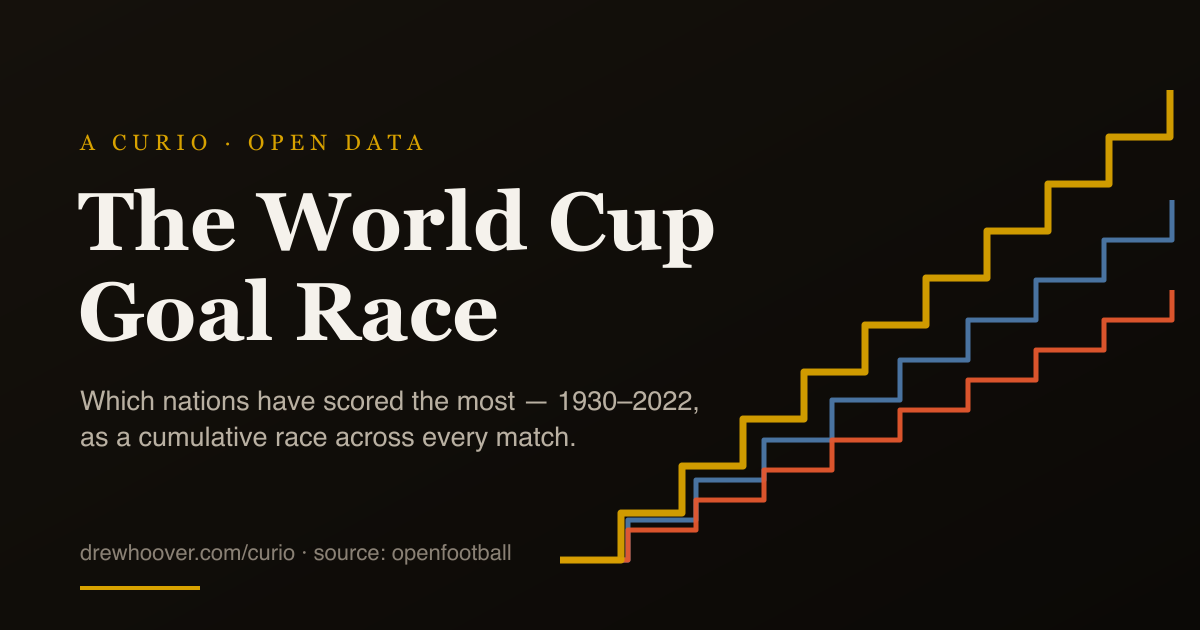
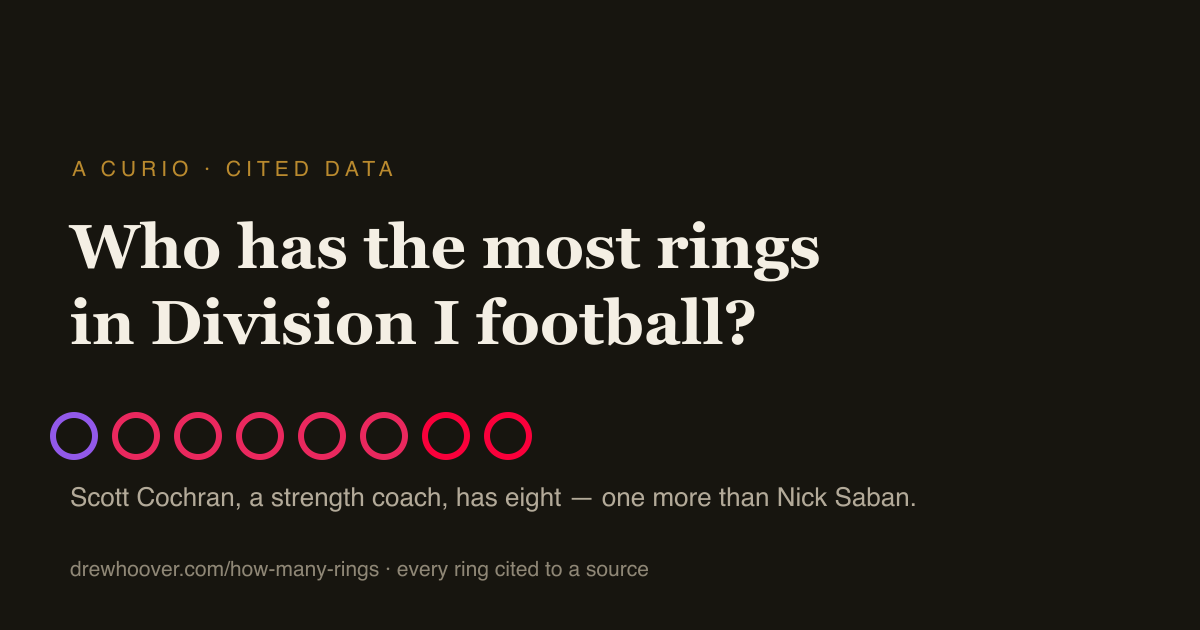
Prerender for crawlers, wire up analytics, refresh the social assets
SEO, per the skill's seo.md:
- dist/index.html shipped an empty #root — every name and number existed
  only after React ran. scripts/prerender.mjs now renders the app with a
  trimmed top-100 seed (64KB, inlined) and injects both markup and seed,
  so the client hydrates against exactly what the server rendered and
  then swaps in the full 741KB dataset. 36,495 characters of text where
  there were none.
- main.tsx hydrates instead of creating a fresh root, and useQueryState
  no longer reads window during render — that seeded state from the URL,
  which hydrates into a mismatch on every shared link.
- Canonical, JSON-LD (WebPage + BreadcrumbList + the 25 rows actually
  rendered), sitemap.xml, and a title aimed at a query this page can win.

Analytics: project sites inherit nothing from the index site, so this had
been reporting zero. Added the shared /embed/analytics.js drop-in along
with the back-bar and giscus chrome it belongs with.

Assets: og.png was still the curio template's World Cup artwork — that
would have been the social card. Regenerated from the real palette, using
Cochran's eight rings as the image. Adds cover.png (1200x750) for the
index card.

README rewritten; it still said 'early scaffold' from the first commit.

diff --git a/index.html b/index.html
@@ -7,21 +7,27 @@
     <link rel="icon" type="image/png" sizes="32x32" href="favicon-32.png" />
     <link rel="apple-touch-icon" sizes="180x180" href="apple-touch-icon.png" />
 
-    <title>Who has the most rings in Division I football? · a Curio</title>
-    <meta name="description" content="Which college football assistant coaches have the most national championship rings? A ranked, cited count of every ring on every staff. Built on open, cited data." />
+    <title>Who Has the Most College Football Championship Rings?</title>
+    <meta name="description" content="Every person on a national-championship staff since 1990, ranked by rings — the strength coaches, trainers and photographers who out-ring famous head coaches." />
+    <link rel="canonical" href="https://drewhoover.com/how-many-rings/" />
 
     <!-- Open Graph / Twitter. og:image + og:url must be absolute; update on a fork. -->
     <meta property="og:type" content="website" />
     <meta property="og:title" content="Who has the most rings in Division I football?" />
-    <meta property="og:description" content="Which college football assistant coaches have the most national championship rings — every ring, every staff, cited." />
+    <meta property="og:description" content="Scott Cochran has eight. Nick Saban has seven. Every person on a championship staff since 1990, ranked by rings, each one cited." />
     <meta property="og:url" content="https://drewhoover.com/how-many-rings/" />
     <meta property="og:image" content="https://drewhoover.com/how-many-rings/og.png" />
     <meta property="og:image:width" content="1200" />
     <meta property="og:image:height" content="630" />
     <meta name="twitter:card" content="summary_large_image" />
     <meta name="twitter:title" content="Who has the most rings in Division I football?" />
-    <meta name="twitter:description" content="Which college football assistant coaches have the most national championship rings — every ring, every staff, cited." />
+    <meta name="twitter:description" content="Scott Cochran has eight. Nick Saban has seven. Every person on a championship staff since 1990, ranked by rings, each one cited." />
     <meta name="twitter:image" content="https://drewhoover.com/how-many-rings/og.png" />
+
+    <!-- drewhoover.com cross-site chrome -->
+    <script src="https://drewhoover.com/embed/back-bar.js" async></script>
+    <script src="https://drewhoover.com/embed/giscus.js" async></script>
+    <script src="https://drewhoover.com/embed/analytics.js" async></script>
   </head>
   <body>
     <div id="root"></div>

diff --git a/src/App.tsx b/src/App.tsx
@@ -11,20 +11,35 @@ const SCOPES: { key: Scope; label: string; blurb: string }[] = [
   { key: 'onfield', label: 'Coaches only', blurb: 'Anyone who earned a ring as a head coach or on-field assistant.' },
 ]
 
+/**
+ * URL-backed state. The first render must not read `window` — the prerendered
+ * HTML has no query string, so seeding from the URL hydrates into a mismatch
+ * whenever someone opens a shared link. Start at the fallback and apply the URL
+ * on mount instead.
+ */
 function useQueryState(key: string, fallback: string) {
-  const [v, setV] = useState(() =>
-    (typeof window === 'undefined' ? null : new URLSearchParams(window.location.search).get(key)) ?? fallback)
+  const [v, setV] = useState(fallback)
+  const [ready, setReady] = useState(false)
+
   useEffect(() => {
+    const fromUrl = new URLSearchParams(window.location.search).get(key)
+    if (fromUrl !== null) setV(fromUrl)
+    setReady(true)
+  }, [key])
+
+  useEffect(() => {
+    if (!ready) return   // don't wipe the incoming URL before we've read it
     const p = new URLSearchParams(window.location.search)
     v === fallback ? p.delete(key) : p.set(key, v)
     const q = p.toString()
     window.history.replaceState(null, '', q ? `?${q}` : window.location.pathname)
-  }, [key, v, fallback])
+  }, [key, v, fallback, ready])
+
   return [v, setV] as const
 }
 
-export function App() {
-  const [data, setData] = useState<Dataset | null>(null)
+export function App({ initialData }: { initialData?: Dataset } = {}) {
+  const [data, setData] = useState<Dataset | null>(initialData ?? null)
   const [error, setError] = useState<string | null>(null)
   const [scope, setScope] = useQueryState('scope', 'all')
   const [q, setQ] = useQueryState('q', '')
@@ -39,12 +54,14 @@ export function App() {
     return () => { window.removeEventListener('scroll', clear); window.removeEventListener('blur', clear) }
   }, [tip])
 
+  // Always fetch the full dataset: the seed carries only the top 100 and no
+  // citations, which is enough to paint but not enough to click into.
   useEffect(() => {
     fetch(`${BASE}data/rings.json`)
       .then((r) => { if (!r.ok) throw new Error(`HTTP ${r.status}`); return r.json() })
       .then(setData)
-      .catch((e) => setError(String(e)))
-  }, [])
+      .catch((e) => { if (!initialData) setError(String(e)) })
+  }, [initialData])
 
   // Rank and count are always the person's real ring total — the scope decides
   // who is listed, never what anyone is worth.

diff --git a/src/main.tsx b/src/main.tsx
@@ -1,10 +1,20 @@
 import { StrictMode } from 'react'
-import { createRoot } from 'react-dom/client'
+import { createRoot, hydrateRoot } from 'react-dom/client'
 import './index.css'
 import { App } from './App.tsx'
+import type { Dataset } from './lib/types.ts'
 
-createRoot(document.getElementById('root')!).render(
+// The prerender step injects a trimmed top-100 payload and the markup rendered
+// from it. Hydrating against that same seed means the server and client first
+// render are identical; the full 741KB dataset arrives afterwards.
+const seedEl = document.getElementById('seed-data')
+const seed: Dataset | undefined = seedEl ? JSON.parse(seedEl.textContent!) : undefined
+const root = document.getElementById('root')!
+
+const tree = (
   <StrictMode>
-    <App />
-  </StrictMode>,
+    <App initialData={seed} />
+  </StrictMode>
 )
+
+seed ? hydrateRoot(root, tree) : createRoot(root).render(tree)

diff --git a/README.md b/README.md
@@ -1,30 +1,57 @@
 # Who has the most rings in Division I football?
 
-**Which college football staffers have the most national championship rings?**
+**Live:** https://drewhoover.com/how-many-rings/
 
-Head coaches get the statues. But an assistant who rides shotgun on multiple dynasties can quietly out-ring almost everyone — Scott Cochran followed Nick Saban from LSU to Alabama, then followed Kirby Smart to Georgia, collecting rings at every stop. This site counts every ring on every championship staff and ranks the assistants.
+Nick Saban has seven national championship rings. Scott Cochran, who ran his weight room, has eight — one at LSU, five at Alabama, two at Georgia, collected by following Saban and then Kirby Smart. Tied with Saban at seven: Alabama's team photographer, its athletics communications director, its student-services director, and the man who was Saban's personal assistant. Four of the six people at the top of this list never coached a down.
 
-A [Curio](https://github.com/DrewHoo/curio): interactive, mobile-first, shareable via URL state, and **every number cited to a real source**.
+This site counts every ring on every national-championship staff since 1990 — **409 people with two or more**, out of 1,273 on those staffs — and every single one links to the source page and the verbatim line that supports it.
 
-**Status: early scaffold.** The app code is still the curio template's World Cup example; the data pipeline design lives in [docs/data-pipeline.md](docs/data-pipeline.md).
+A [Curio](https://github.com/DrewHoo/curio): interactive, mobile-first, shareable via URL state, and every number cited.
 
-## The core computation
+## How the count works
 
-A "ring" is defined as: **coach C was on team T's staff during season S, and T won the national championship in S.**
+A ring means: this person was on the staff of a team that won the national championship that season, and was still on staff at the championship game.
 
-That decomposes into two datasets, one of which is already solved:
+That decomposes into two datasets joined deterministically in code — no model does any counting:
 
-1. **Championship seasons** (small, fixed, settled): one consensus national champion per season. Already scraped in the sibling repo [`collegiate-championships`](https://github.com/DrewHoo/cfb-all-time-records) (CFP > BCS > AP > Coaches preference order).
-2. **Staff rosters for championship teams** (the hard part): who was on staff for each championship team-season, in what role. This is bounded — ~35 champion team-seasons since 1990, ~10–15 on-field assistants plus notable staff each — and is gathered by the agentic pipeline in `docs/data-pipeline.md`.
+1. **Champion seasons** — one consensus national champion per season (CFP > BCS > AP > Coaches), reused from the sibling [`collegiate-championships`](https://github.com/DrewHoo/cfb-all-time-records) scraper. 40 team-seasons, split titles counted for both schools.
+2. **Staff rosters for those seasons** — the part that existed nowhere. Assembled from media guides on archive.org, Wayback Machine snapshots of athletics staff directories, and school bios, by an agent fleet. Each row carries a URL and the exact line from it, so a hallucinated row can be rejected by string match rather than by trust.
 
-Rings per coach = group the (coach, team, season, role, citations) rows by coach. Working **backward from championships** (rather than forward from all coaches ever) is what keeps the problem small and every claim independently checkable.
+Rings per person = group the rows by person. Working backwards from championships is what keeps the problem small enough to verify claim by claim.
 
-## Development
+### The rules, kept in data rather than in judgment
+
+- **[`data/employment-rules.json`](data/employment-rules.json)** — the job has to be the team. 61 people on these staff lists are excluded because someone else signed their paycheck: state troopers and team security, chaplains and FCA staff, consulting physicians and surgeons, volunteers. Athletic trainers, academic counselors and video staff are department employees and count.
+- **[`data/name-aliases.json`](data/name-aliases.json)** — sources spell one person several ways across seasons. Wes Neighbors appears on the same 2012 roster as both "Wes" and "Wesley"; unmerged, that splits one person into two undercounted people.
+- **[`data/player-rings.json`](data/player-rings.json)** — 14 people won rings as players too, tracked separately and shown as a filled mark. Dabo Swinney, Mickey Conn and Lemanski Hall all won 1992 as Alabama players, then won 2016 and 2018 together on Clemson's staff.
+- **[`data/school-colors.json`](data/school-colors.json)** — each school's official brand color, cited to its brand guidelines, with notes where two schools publish identical hexes.
+
+Rings sourced from a documented employment span rather than a staff list are marked `via: "tenure"` and labeled *from tenure* in the UI. It is weaker evidence and the site says so.
+
+## Scripts
 
 ```bash
-npm install
-npm run dev          # local dev server
-npm run build        # fetch data + typecheck + build
+npm run dev            # local dev server
+npm run build          # build data + typecheck + vite build + prerender
+npm run gen:colors     # regenerate src/team-colors.css from data/school-colors.json
+node scripts/coverage-report.mjs   # dataset health — run after any merge
 ```
 
-Deploys to GitHub Pages at `https://drewhoover.com/how-many-rings/` via `.github/workflows/deploy.yml` once the repo is pushed (not yet pushed — local only for now).
+`coverage-report.mjs` measures the failure modes a finished page hides:
+
+1. **Depth asymmetry** — two title seasons of one program harvested from sources of different depth. Consecutive championship staffs share ~75% of their people; when the number is 33%, the thin season is the bug, not staff turnover.
+2. **Missing lifers** — someone credited for part of a program's titles in a role that implies they were there for all of them. Kent Gidley read as a 2017/2020 guy until you learn he has photographed Alabama football since 1986. He has seven.
+3. **Photo coverage** of the union of each filter's top 100 — the set actually on screen.
+4. **Headshots shaped like logos** — a school bio page whose photo is missing serves its site logo as `og:image`, which downloads cleanly and passes a content-type check. The only tell is that it's landscape.
+
+The merge scripts (`merge-*.mjs`) apply audited findings to the rosters, deduping against what's already there and dropping low-confidence rows.
+
+## Known gaps
+
+- **LSU 2003 and 2007 share only 37% of their staff** — the last obviously thin harvest. Alabama 2012/2015 (56%) and Florida State 1993/1999 (59%) are next.
+- Support-staff coverage is thinner in the early 1990s than today, so the older dynasties are undercounted.
+- Tennessee/Clemson and Texas/Auburn are indistinguishable by ring color. Six of these programs wear orange and seven wear red; no palette fixes that, so color is a supporting cue and the school is always named in text.
+
+## Data pipeline design
+
+[docs/data-pipeline.md](docs/data-pipeline.md) — how the agentic gathering works and why it's shaped this way. [docs/research/scott-cochran.md](docs/research/scott-cochran.md) is the pilot case, and doubles as the fixture the automated count has to reproduce.
